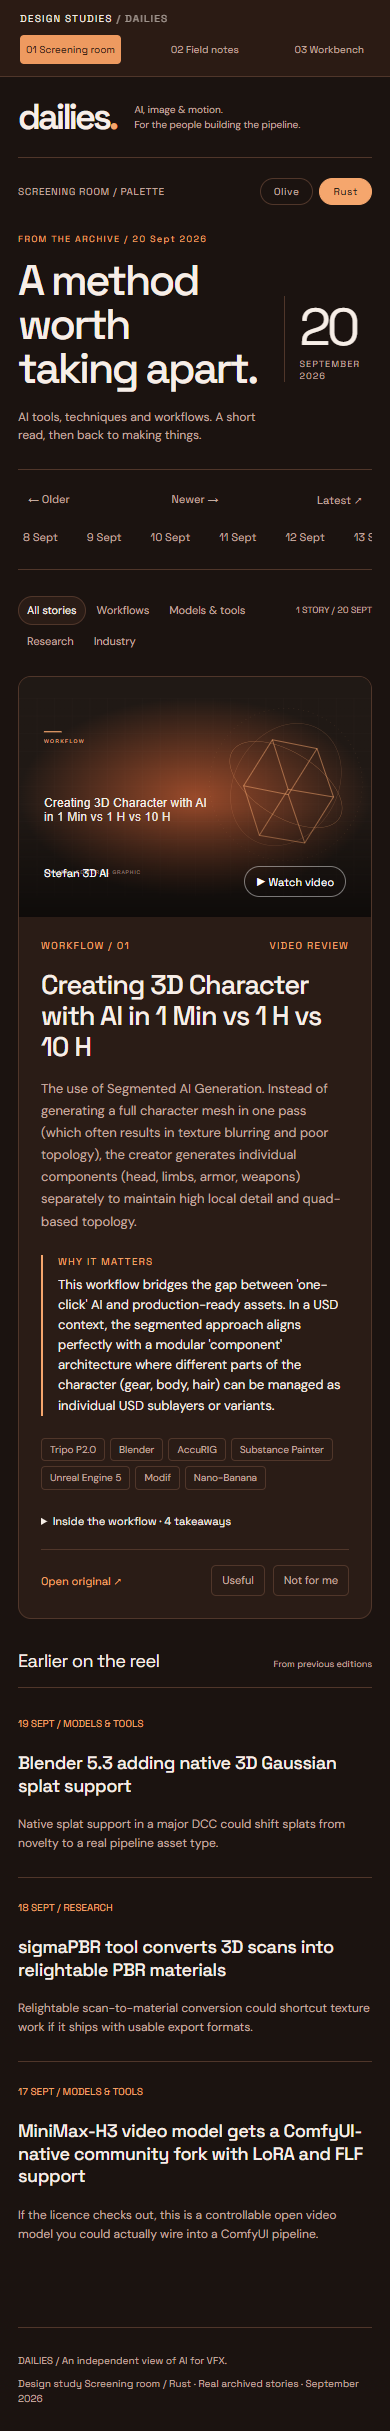
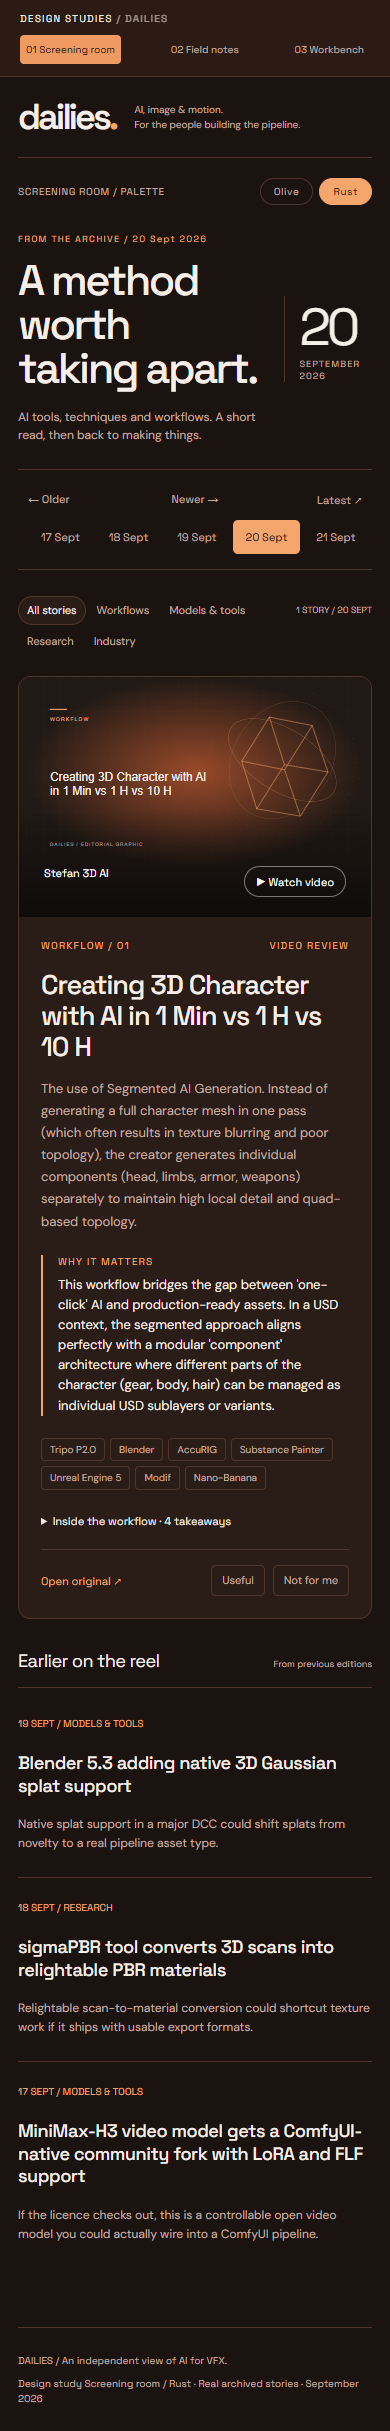
Keep preview artwork captions clear and dates centered on resize

Changed region(s): [[0.1231, 0.2777, 0.8615, 0.3702], [0.5846, 0.216, 0.7692, 0.2468]]

diff --git a/design-previews/preview.js b/design-previews/preview.js
@@ -17,6 +17,11 @@
     const tools = story.tools_and_platforms || [];
     return `<article class="story"><div class="visual"><img class="thumbnail-art" src="${escape(story.fallback_image)}" alt="" loading="lazy">${story.image ? `<img class="thumbnail-source" src="${imageUrl(story.image)}" alt="${story.image_kind === 'ai' ? 'AI illustration' : 'Thumbnail from ' + escape(source.name)}" loading="lazy">` : ''}<div class="image-caption"><span>${escape(source.name)}${story.image_kind === 'ai' ? '<small class="image-credit">AI illustration</small>' : ''}</span><a class="play" href="${safeUrl(source.url)}" target="_blank" rel="noopener">${source.video?'▶ Watch video':'↗ Read source'}</a></div></div><div class="story-content"><div class="story-meta"><span>${labels[story.channel] || 'STORY'} / ${String(index+1).padStart(2,'0')}</span><span>${story.watched?'VIDEO REVIEW':'IN THE DIGEST'}</span></div><h2><a href="${safeUrl(source.url)}" target="_blank" rel="noopener">${escape(story.headline)}</a></h2><p class="body">${escape(story.body)}</p>${story.why?`<div class="takeaway"><b>WHY IT MATTERS</b>${escape(story.why)}</div>`:''}${tools.length?`<ul class="tools">${tools.map(t=>`<li title="${escape(t.used_for)}">${escape(t.name)}</li>`).join('')}</ul>`:''}${story.whats_transferable?.length?`<details><summary>Inside the workflow · ${story.whats_transferable.length} takeaways</summary><ul>${story.whats_transferable.map(t=>`<li>${escape(t)}</li>`).join('')}</ul></details>`:''}<div class="story-actions"><a href="${safeUrl(source.url)}" target="_blank" rel="noopener">Open original ↗</a><button data-vote="useful" data-key="${escape(day+index)}">Useful</button><button data-vote="skip" data-key="${escape(day+index)}">Not for me</button></div></div></article>`;
   }
+  function centerDate() {
+    const track=document.getElementById('days'), active=track.querySelector('.active');
+    if(active)track.scrollLeft=active.offsetLeft-track.offsetLeft-(track.clientWidth-active.clientWidth)/2;
+  }
+  new ResizeObserver(centerDate).observe(document.getElementById('days'));
   function show() {
     const i = dates.indexOf(day);
     const date = new Date(day + 'T12:00:00');
@@ -32,8 +37,7 @@
     document.getElementById('latest').disabled = i === dates.length-1;
     document.getElementById('days').innerHTML = dates.map(d=>`<button data-day="${d}" ${d===day?'class="active" aria-current="date"':''}>${fmt(d)}</button>`).join('');
     document.querySelectorAll('[data-day]').forEach(button=>button.onclick=()=>{day=button.dataset.day;show();});
-    const track=document.getElementById('days'), active=track.querySelector('.active');
-    track.scrollLeft=active.offsetLeft-track.offsetLeft-(track.clientWidth-active.clientWidth)/2;
+    centerDate();
     const stories = editions[day].stories.filter(s => filter==='all' || s.channel===filter);
     document.getElementById('story-count').textContent = `${stories.length} ${stories.length===1?'STORY':'STORIES'} / ${fmt(day).toUpperCase()}`;
     document.getElementById('stories').innerHTML = stories.length ? stories.map(storyHTML).join('') : '<p class="empty">No stories in this category for this edition.<br>Try All stories or another date.</p>';

diff --git a/design-previews/preview.css b/design-previews/preview.css
@@ -21,4 +21,4 @@
 .palette-switch [aria-current]{background:var(--accent);border-color:var(--accent);color:var(--bg)}
 .screening .intro,.screening-rust .intro{padding-top:28px}
 
-.visual .thumbnail-art{object-fit:contain;background:#201915}.image-credit{display:block;margin-top:7px;font-size:10px;opacity:.8}
+.visual .thumbnail-art{object-fit:contain;background:#201915;padding-bottom:50px}.image-credit{display:block;margin-top:7px;font-size:10px;opacity:.8}
